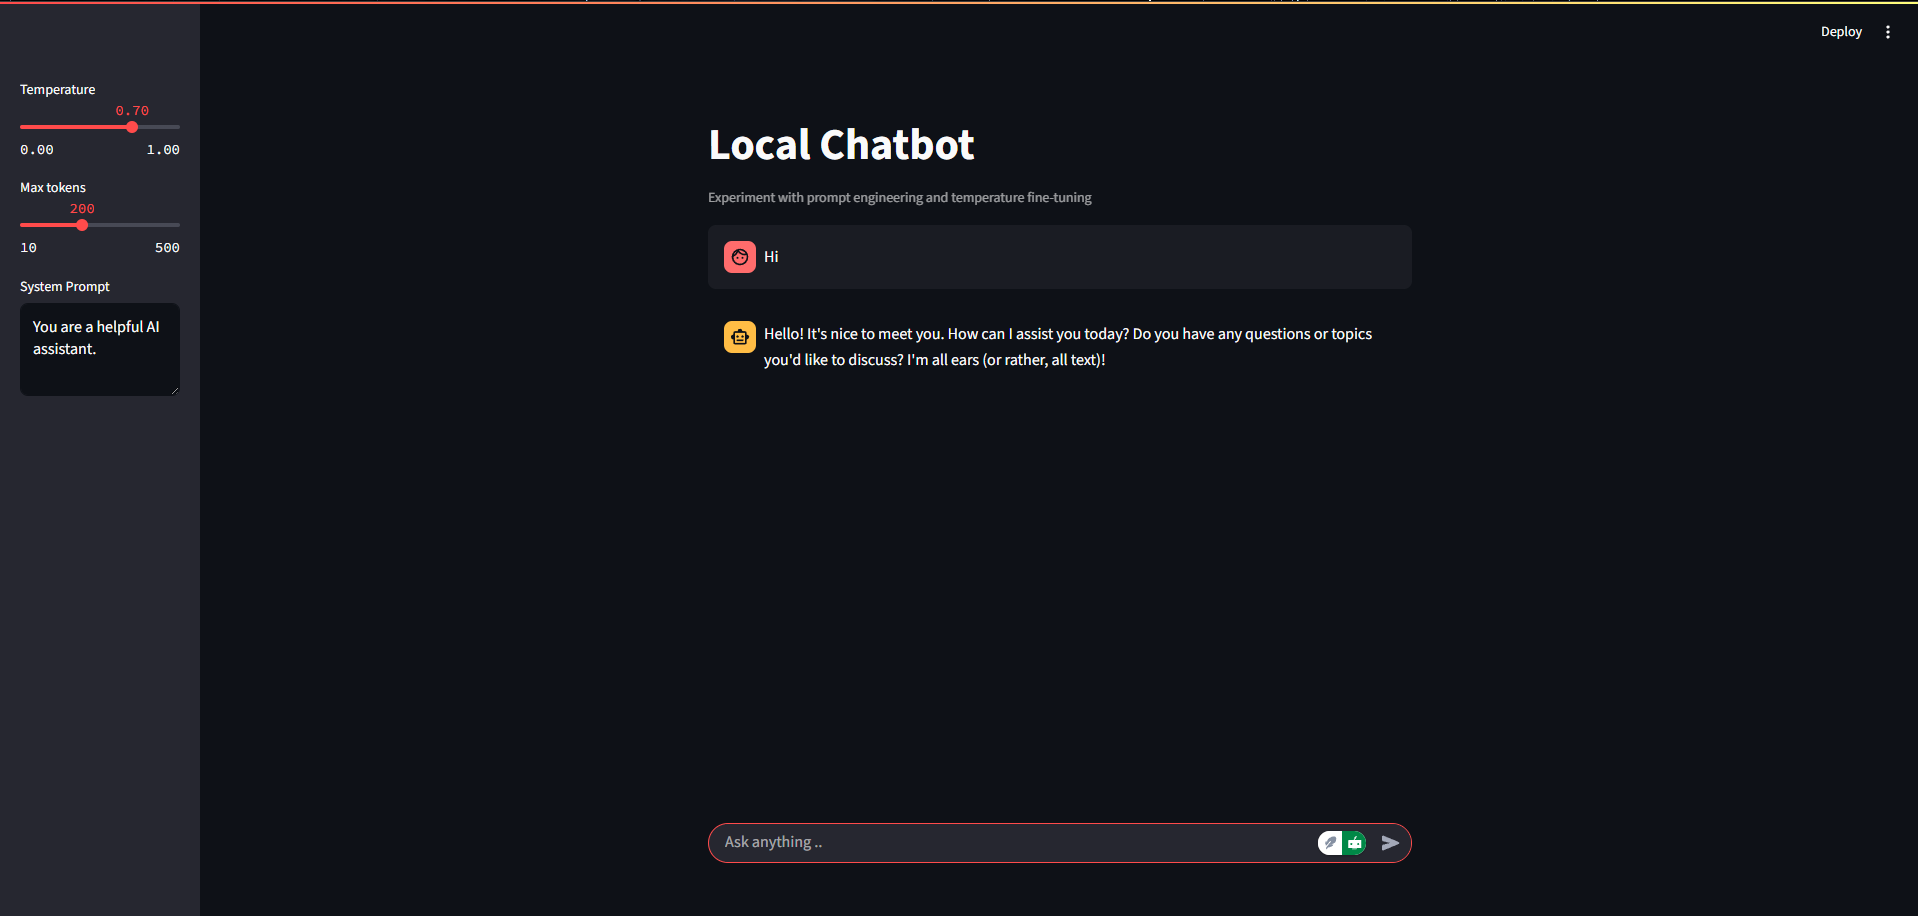
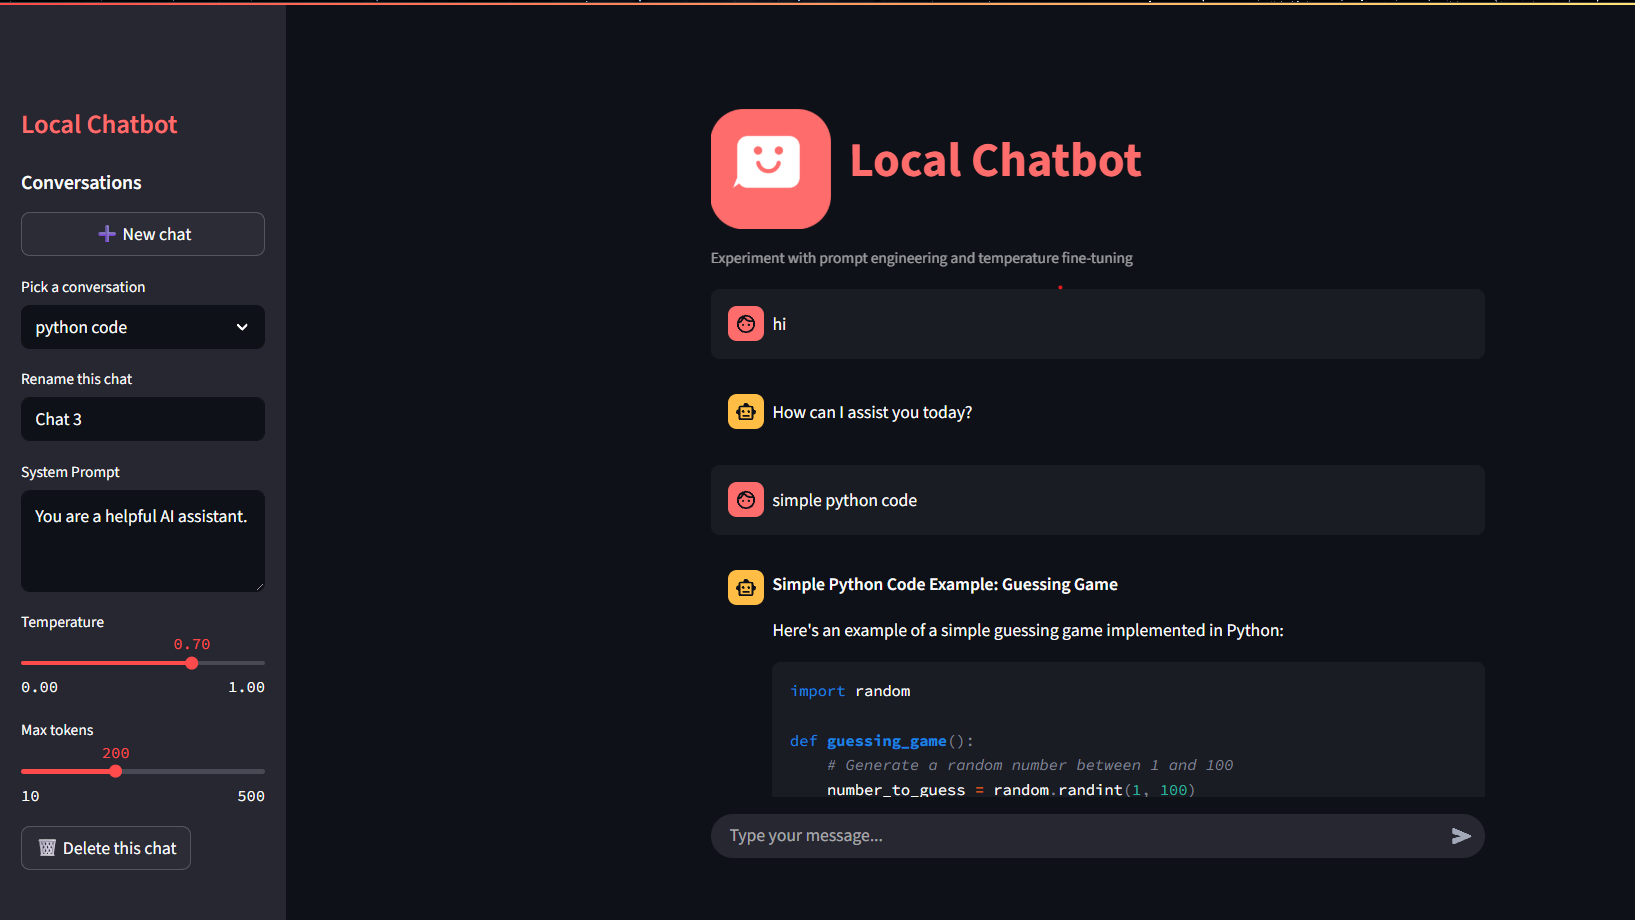
update image of project

diff --git a/dist/index.html b/dist/index.html
@@ -14,8 +14,8 @@
         }
       })();
     </script>
-    <script type="module" crossorigin src="/Portfolio/assets/index-RAB5ZqKk.js"></script>
-    <link rel="stylesheet" crossorigin href="/Portfolio/assets/index-C-Hy98w2.css">
+    <script type="module" crossorigin src="/Portfolio/assets/index-BgFWGwNs.js"></script>
+    <link rel="stylesheet" crossorigin href="/Portfolio/assets/index-q6-6Vxu_.css">
   </head>
   <body>
     <div id="root"></div>
